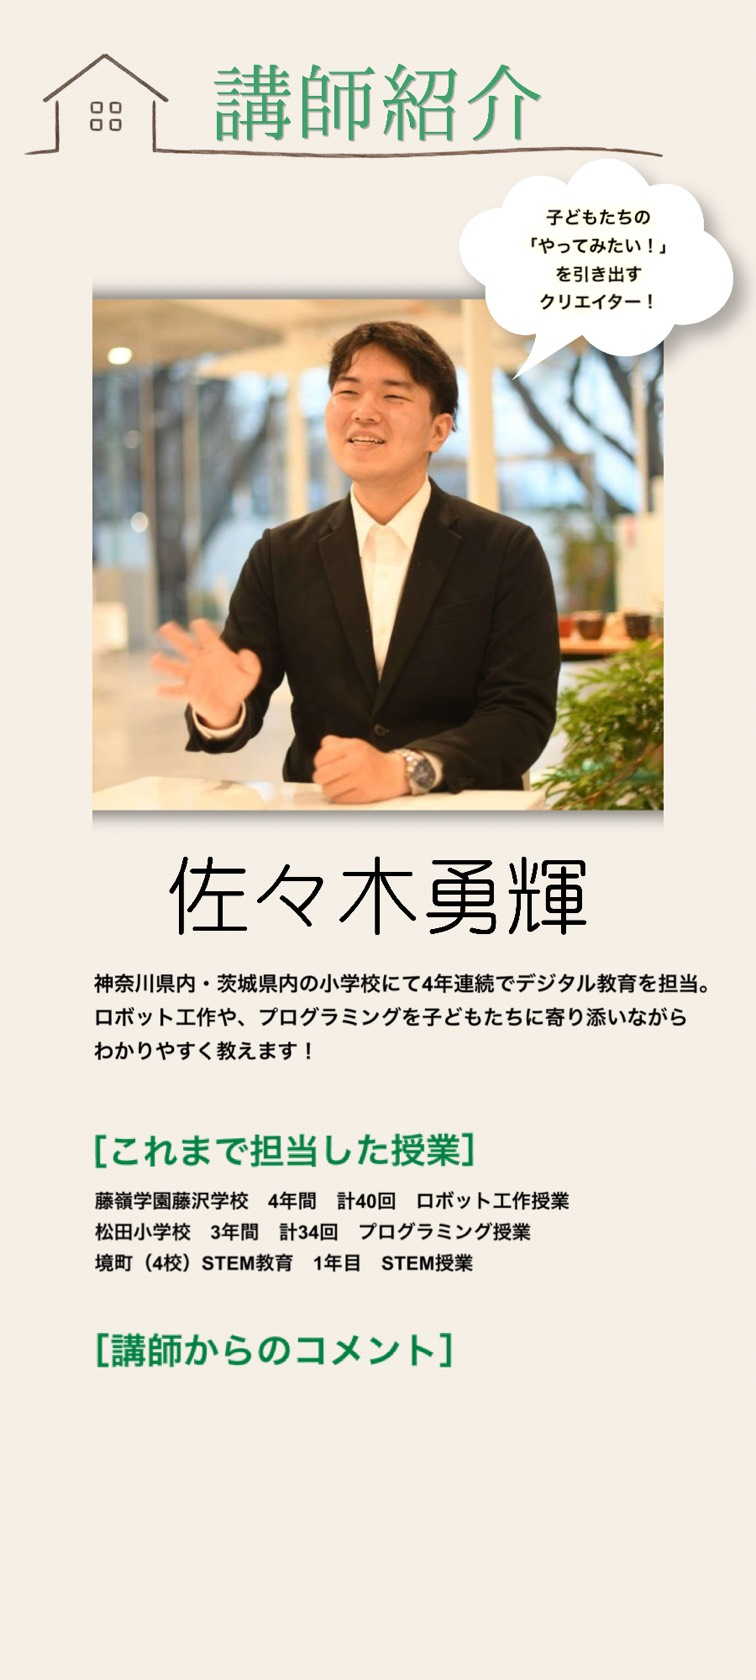
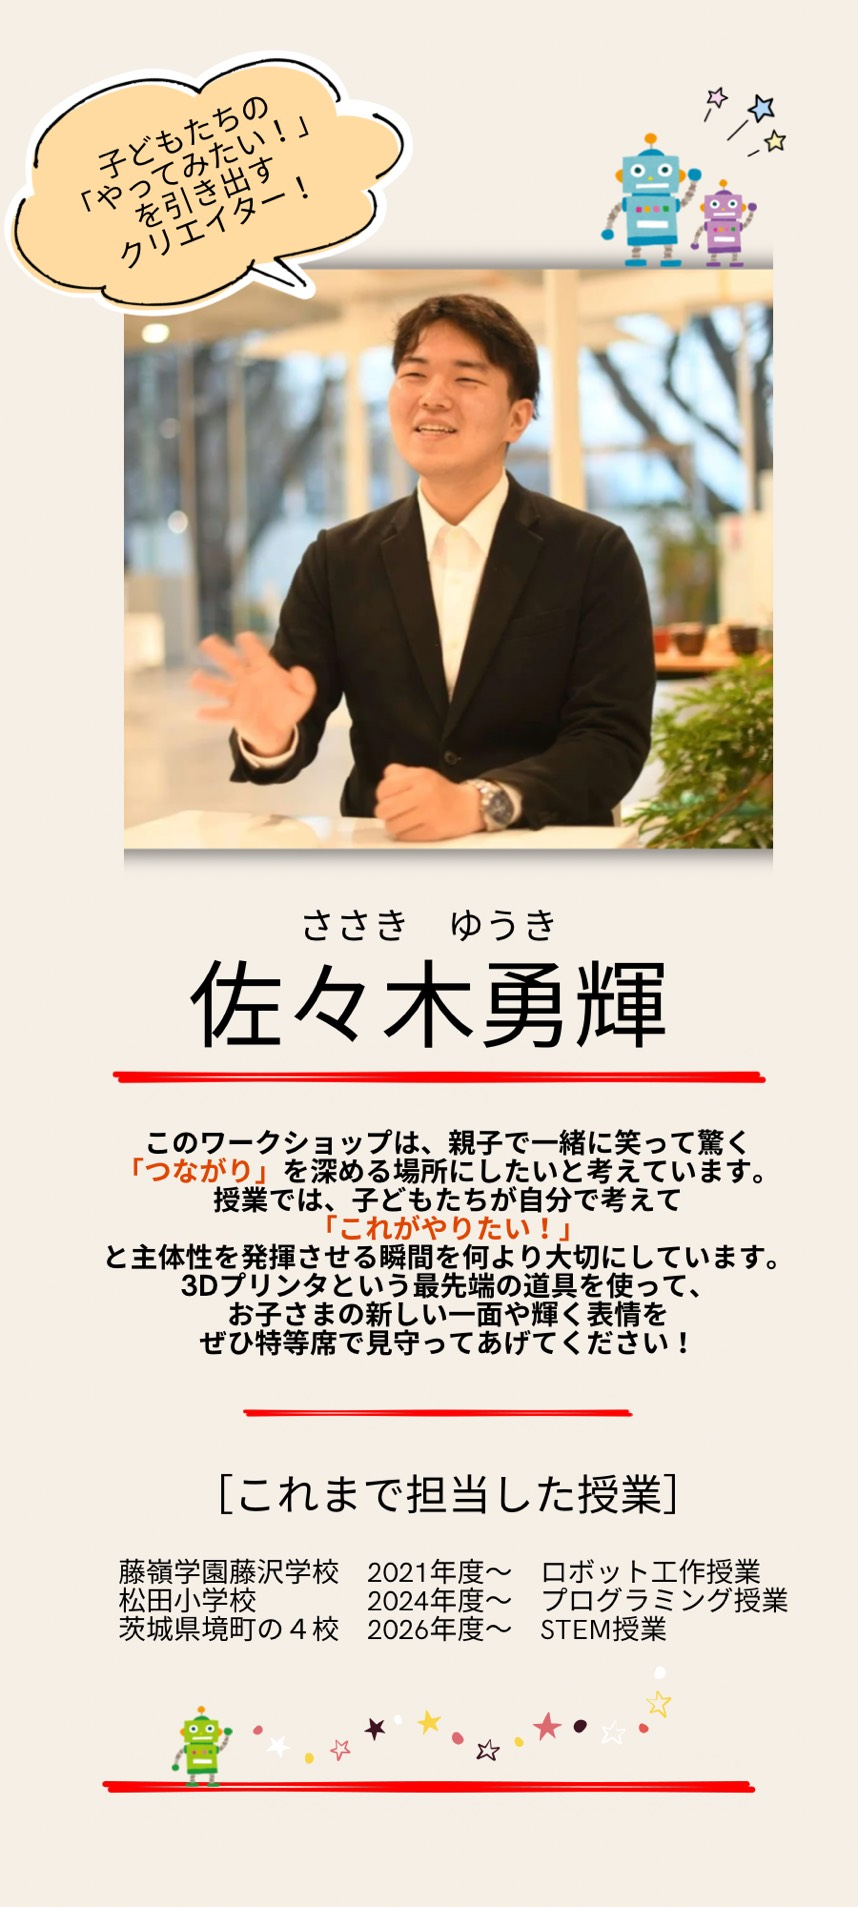
update 260705A

diff --git a/products/workshop/20260705A/index.html b/products/workshop/20260705A/index.html
@@ -61,14 +61,14 @@
           <h2 id="profile-title">当日の流れ</h2>
         </div>
         <figure class="portrait-wrap">
-          <img src="assets/instructor-9x20.svg" alt="当日の流れ" loading="lazy" />
+          <img src="/assets/potera/program.jpg" alt="当日の流れ" loading="lazy" />
         </figure>
       </section>
 
       <section class="section profile" aria-labelledby="profile-title">
         <div class="section-head compact">
           <p class="section-kicker">Teacher</p>
-          <h2 id="profile-title"></h2>
+          <h2 id="profile-title">講師紹介</h2>
         </div>
         <figure class="portrait-wrap">
           <img src="/assets/potera/teacher.jpg" alt="講師紹介" loading="lazy" />
@@ -132,7 +132,7 @@
           <h2 id="profile-title">お客様の声</h2>
         </div>
         <figure class="portrait-wrap">
-          <img src="assets/instructor-9x20.svg" alt="お客様の声" loading="lazy" />
+          <img src="/assets/potera/reviews.jpg" alt="お客様の声" loading="lazy" />
         </figure>
       </section>
     </main>
